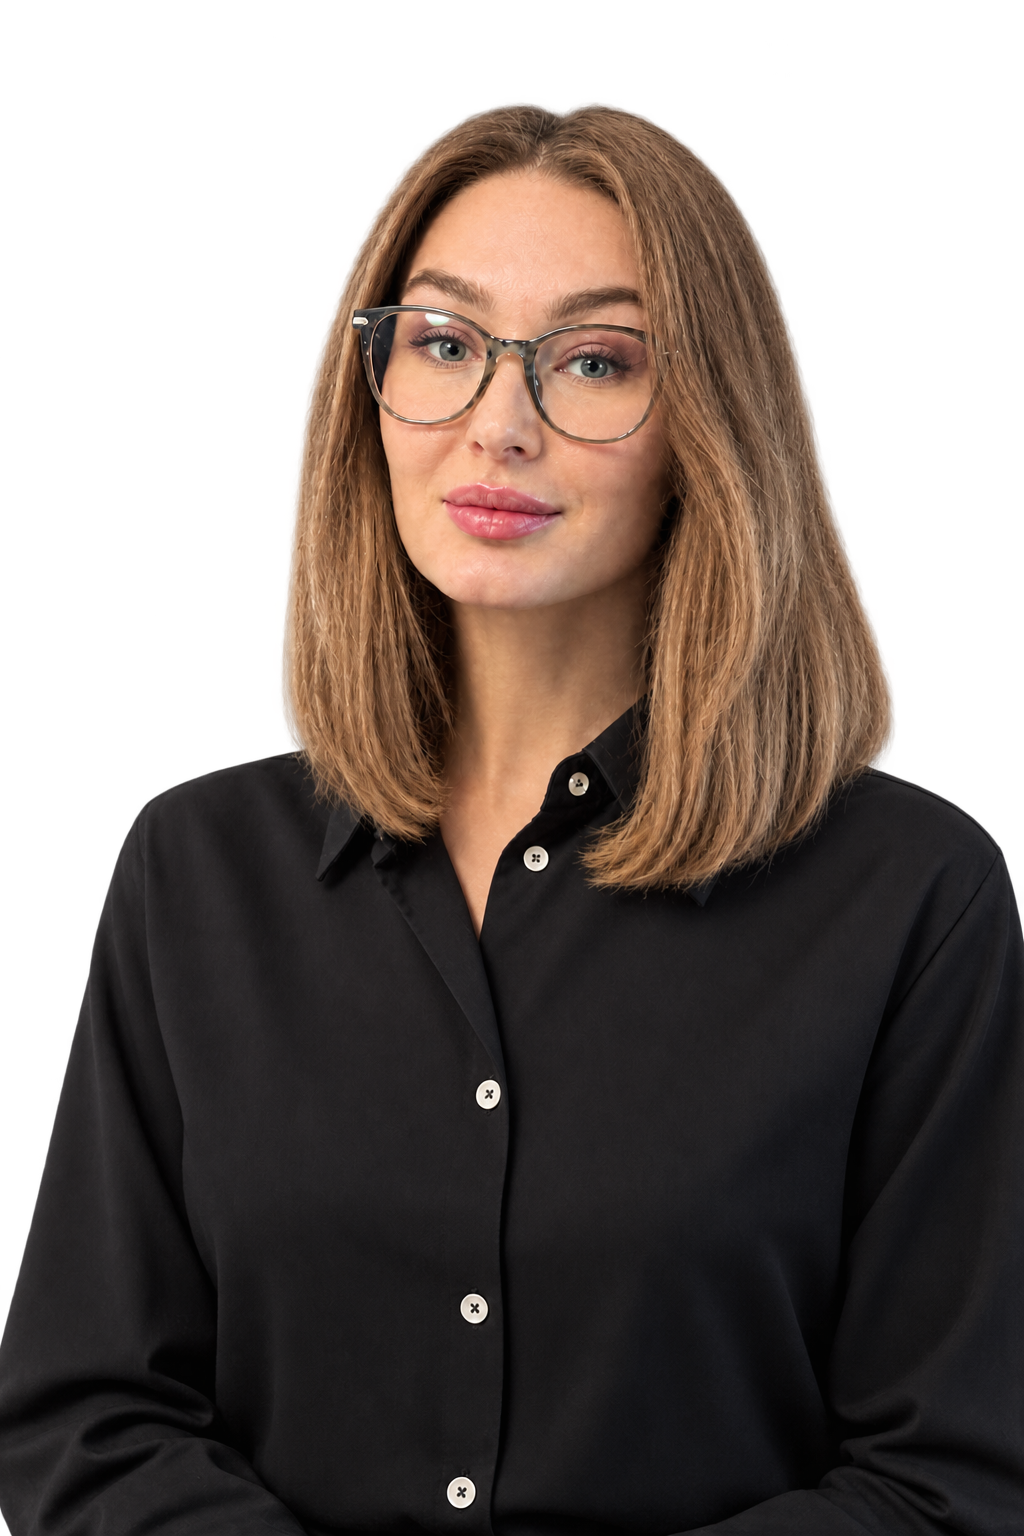
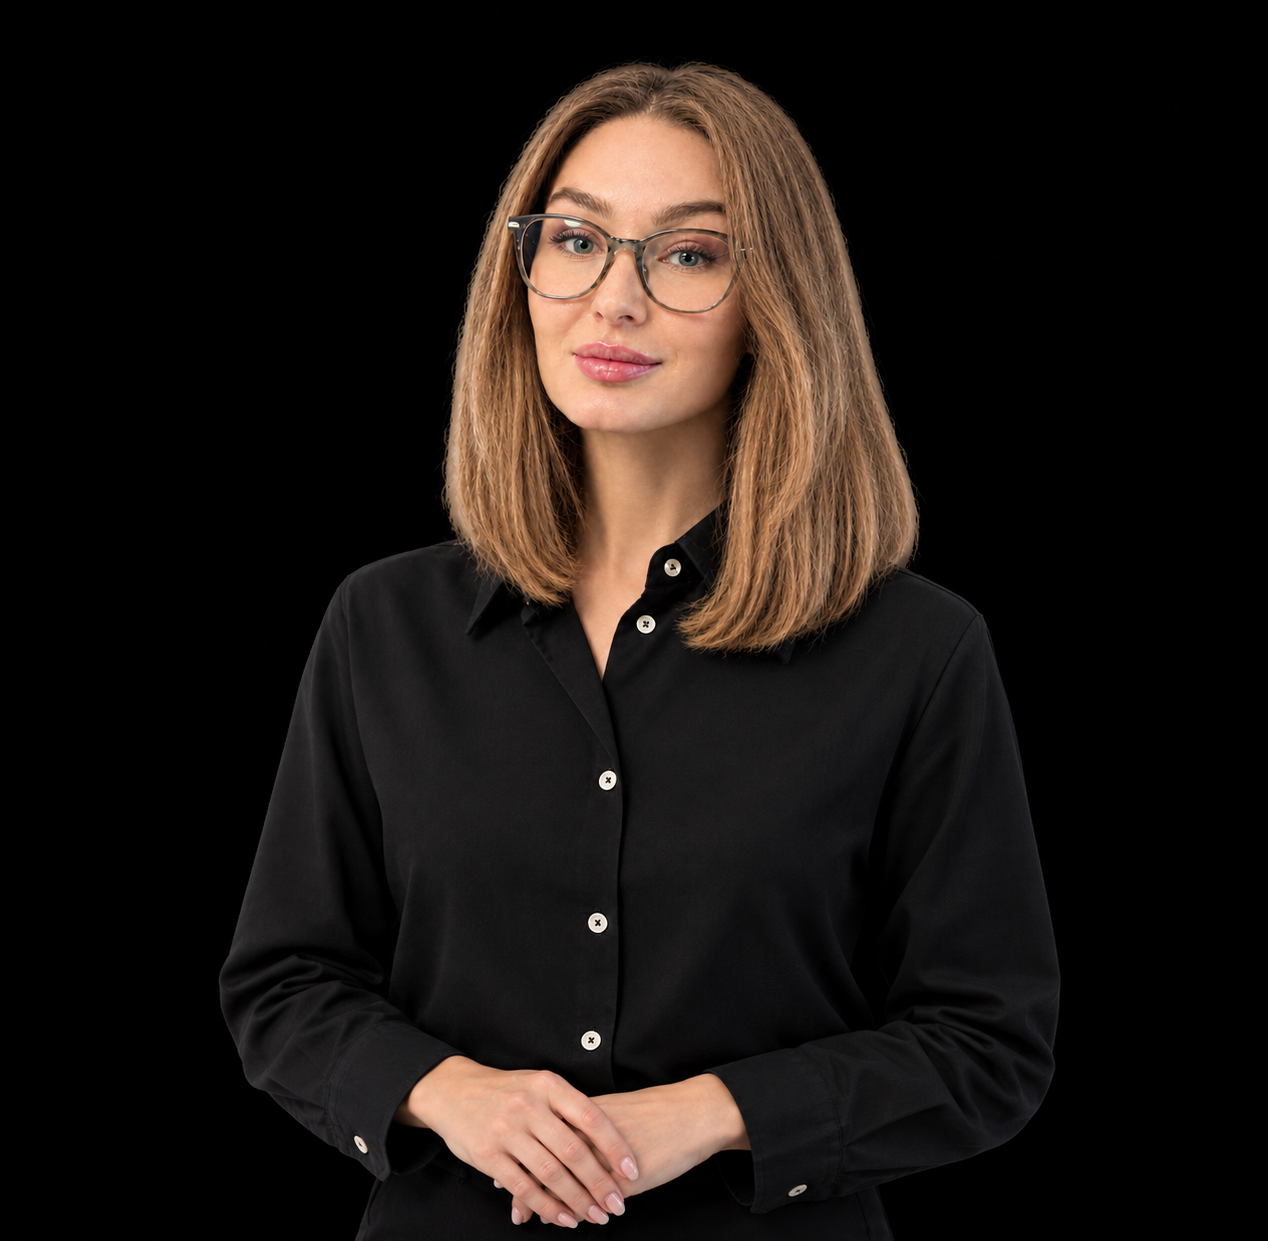
Replace About section portrait

diff --git a/концеп расстановки/concept-4/v4.1/index.html b/концеп расстановки/concept-4/v4.1/index.html
@@ -131,7 +131,7 @@
         </div>
         <figure class="about__photo">
           <img class="about__scene" src="./assets/scenes/about-arch-interior.png" alt="" aria-hidden="true" loading="lazy">
-          <img class="about__portrait" src="./assets/portraits/olga-about.png" alt="Ольга Сусленникова в чёрной рубашке" loading="lazy">
+          <img class="about__portrait" src="./assets/portraits/olga-about.png" alt="Ольга Сусленникова в очках и чёрной рубашке на чёрном студийном фоне" loading="lazy">
         </figure>
         <aside class="about__quote">
           <span aria-hidden="true">“</span>

diff --git a/концеп расстановки/concept-4/v4.1/styles.css b/концеп расстановки/concept-4/v4.1/styles.css
@@ -212,7 +212,7 @@ p { margin-bottom: 18px; }
   width: 100%;
   height: 100%;
   max-height: none;
-  object-fit: contain;
+  object-fit: cover;
   object-position: center bottom;
   filter: drop-shadow(0 15px 22px rgba(47,32,15,.16));
 }

diff --git a/концеп расстановки/concept-4/v4.1/ASSETS.md b/концеп расстановки/concept-4/v4.1/ASSETS.md
@@ -8,12 +8,12 @@
 |---|---|
 | `assets/backgrounds/` | `section-01.jpg`–`section-12.jpg`, `section-08-composed.jpg`, `section-11-composed.jpg` и `about-watercolor-background.jpg` |
 | `assets/identity/` | `brand-mark.svg` |
-| `assets/portraits/` | `olga-hero-glasses.png`, `olga-hero.png` (social preview), `olga-about.png` |
+| `assets/portraits/` | `olga-hero-glasses.png`, `olga-hero.png` (social preview), `olga-about.png` — студийный портрет в очках на чёрном фоне |
 | `assets/scenes/` | `about-arch-interior.png` — графический фон блока «Обо мне» |
 | `assets/why-me/` | Текстура, ботанический элемент, рамка и золотые декоративные детали |
 | `assets/references/` | `style-guide-olga-suslennikova.png` — визуальный эталон |
 
-Все локальные изображения, на которые ссылаются HTML и CSS, проверены. Двенадцать основных фонов оптимизированы в JPEG; для блоков 8 и 11 дополнительно используются собранные композиции с интерьерными деталями справа. Портреты и прозрачные декоративные PNG/SVG сохранены с прозрачностью.
+Все локальные изображения, на которые ссылаются HTML и CSS, проверены. Двенадцать основных фонов оптимизированы в JPEG; для блоков 8 и 11 дополнительно используются собранные композиции с интерьерными деталями справа. `olga-about.png` — студийный портрет с чёрным фоном; в блоке «Обо мне» он кадрируется через `object-fit: cover` в вертикальную рамку. Прозрачность сохраняется у PNG/SVG, используемых как портретные вырезки и декоративные элементы.
 
 ## Локальный архив, исключённый из Git
 
